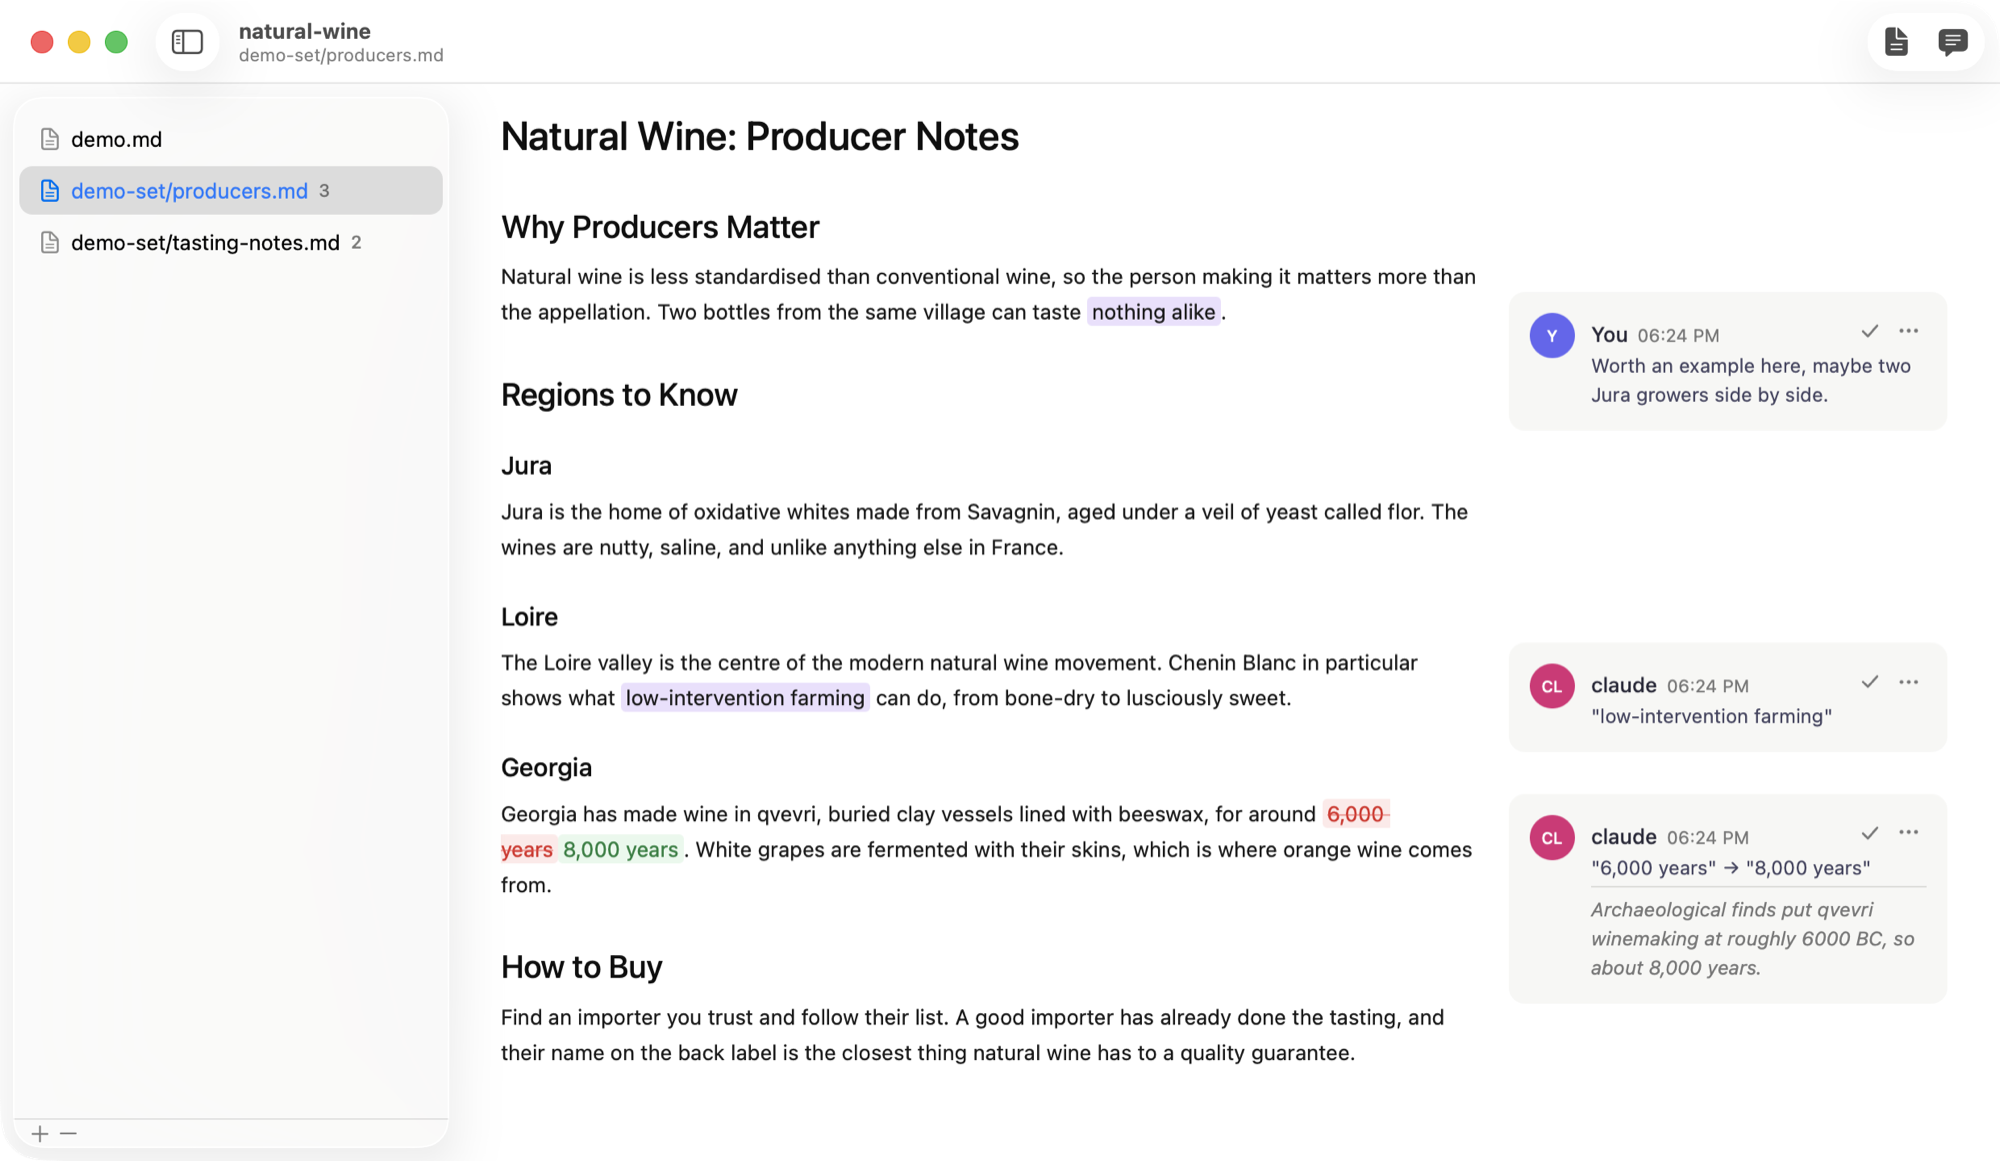
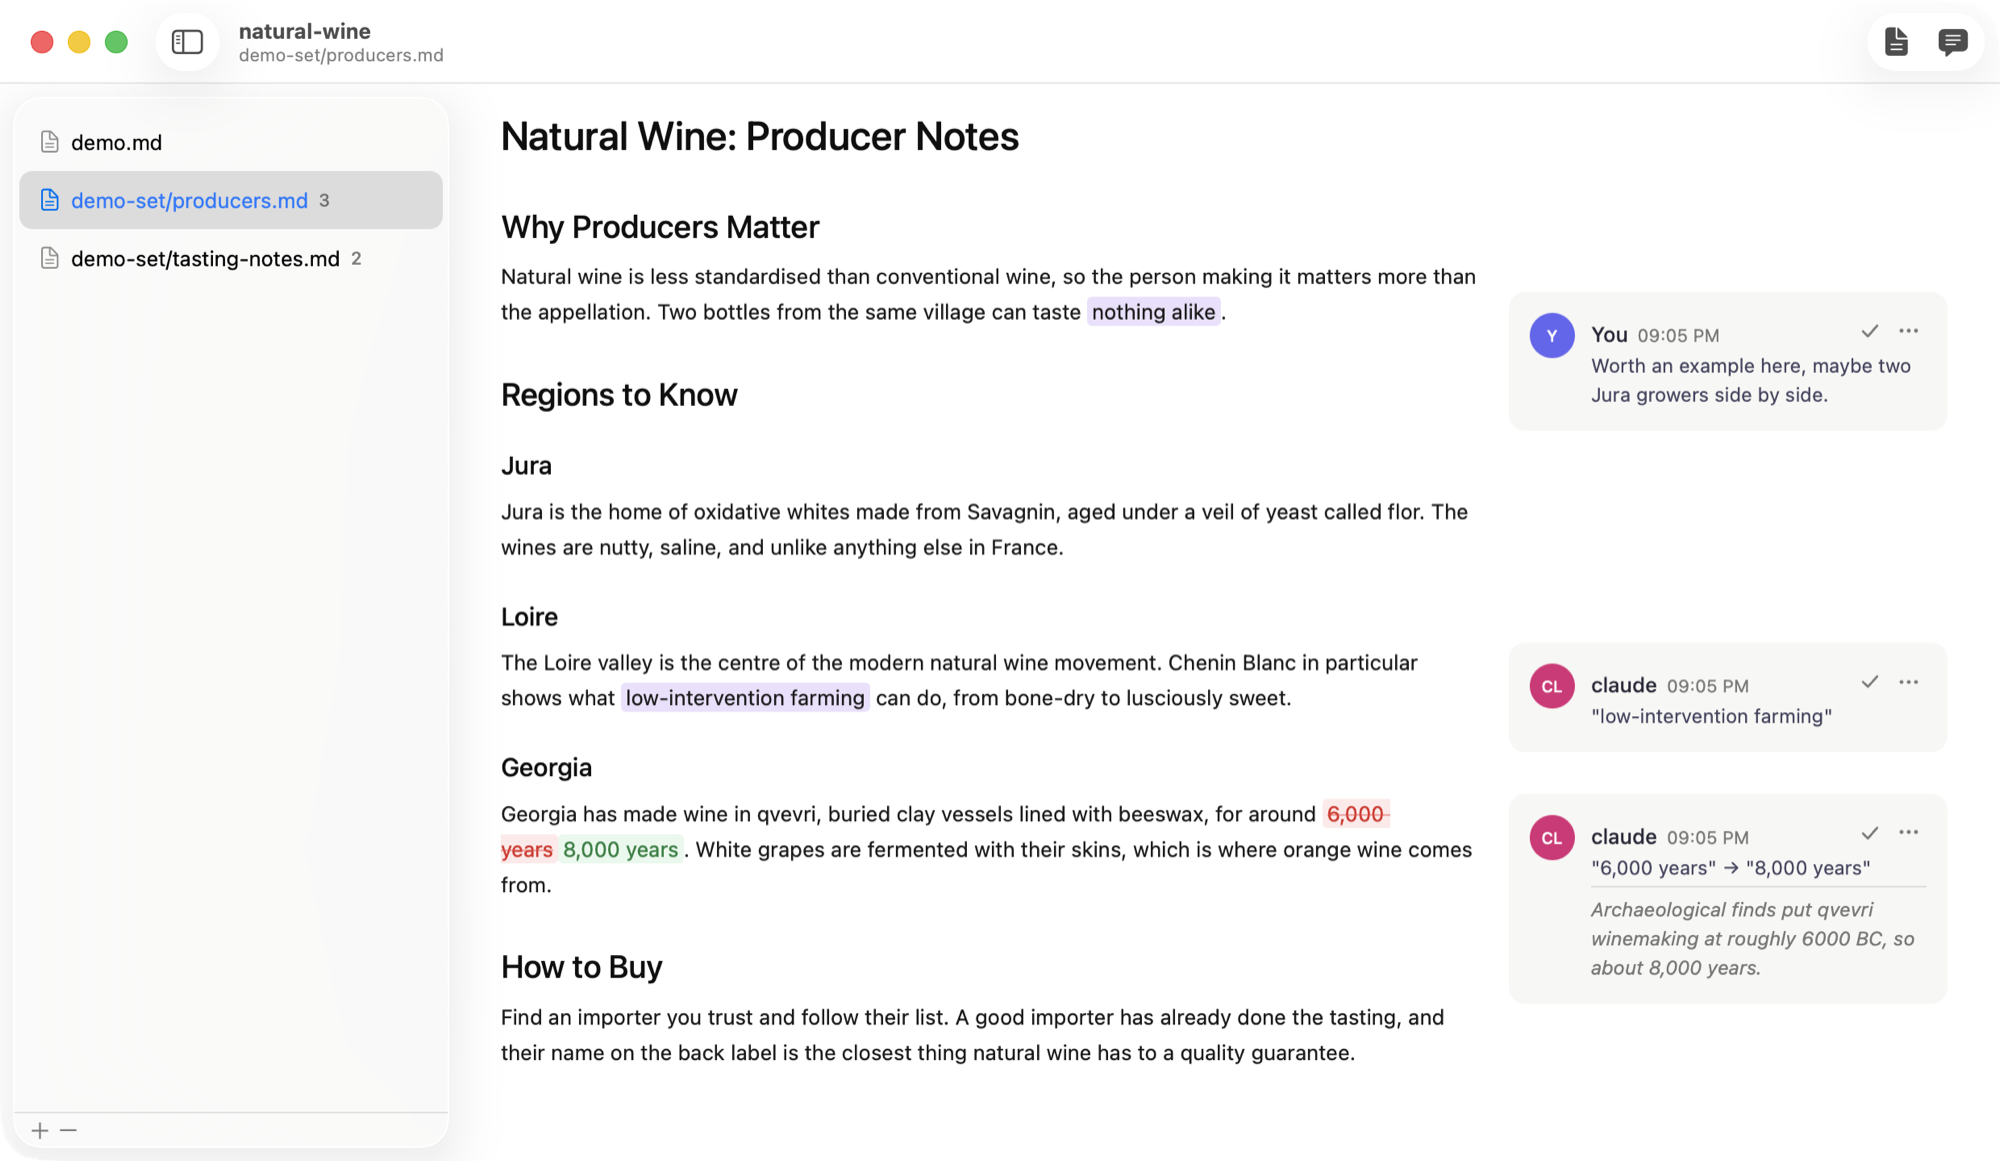
Give the sidebar rows more room

Changed region(s): [[0.0, 0.093, 0.217, 0.2481]]

diff --git a/macos/Sources/Folio/SidebarViewController.swift b/macos/Sources/Folio/SidebarViewController.swift
@@ -52,7 +52,9 @@ final class SidebarViewController: NSViewController, NSTableViewDataSource, NSTa
         table.style = .sourceList
         table.headerView = nil
         table.allowsEmptySelection = false
-        table.rowSizeStyle = .default
+        table.rowSizeStyle = .custom  // the system size follows the "Sidebar icon size" setting, which can be as tight as 20pt
+        table.rowHeight = 34
+        table.intercellSpacing = NSSize(width: 0, height: 2)
         table.addTableColumn(NSTableColumn(identifier: NSUserInterfaceItemIdentifier("file")))
         table.dataSource = self
         table.delegate = self
@@ -78,7 +80,7 @@ final class SidebarViewController: NSViewController, NSTableViewDataSource, NSTa
         let bar = NSStackView(views: [add, removeButton])
         bar.orientation = .horizontal
         bar.spacing = 4
-        bar.edgeInsets = NSEdgeInsets(top: 4, left: 10, bottom: 6, right: 10)
+        bar.edgeInsets = NSEdgeInsets(top: 6, left: 10, bottom: 8, right: 10)
         bar.alignment = .centerY
         bar.distribution = .gravityAreas
         let spacer = NSView()
@@ -158,6 +160,11 @@ final class SidebarViewController: NSViewController, NSTableViewDataSource, NSTa
     // MARK: NSTableViewDataSource / Delegate
 
     func numberOfRows(in tableView: NSTableView) -> Int { rows.count }
+
+    func tableView(_ tableView: NSTableView, heightOfRow row: Int) -> CGFloat {
+        if case .header = rows[row] { return 28 }
+        return tableView.rowHeight
+    }
 
     func tableView(_ tableView: NSTableView, rowViewForRow row: Int) -> NSTableRowView? {
         SoftSelectionRowView()
@@ -271,7 +278,7 @@ final class SoftSelectionRowView: NSTableRowView {
     override func drawSelection(in dirtyRect: NSRect) {
         guard isSelected else { return }
         NSColor.unemphasizedSelectedContentBackgroundColor.setFill()
-        NSBezierPath(roundedRect: bounds.insetBy(dx: 4, dy: 1), xRadius: 8, yRadius: 8).fill()
+        NSBezierPath(roundedRect: bounds.insetBy(dx: 4, dy: 0), xRadius: 8, yRadius: 8).fill()
     }
 
     // The cell is added after the row view is created, so tint it when it arrives too.
